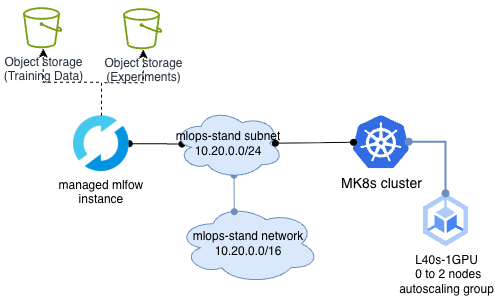
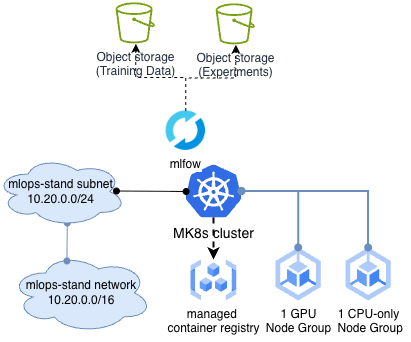
updated diagrams and some scripts

Changed region(s): [[0.0, 0.298, 1.0, 0.9834], [0.0, 0.0, 0.6715, 0.298]]

diff --git a/README.md b/README.md
@@ -25,17 +25,34 @@ This reference architecture provisions an automated, production-ready MLOps plat
 ## 4. Repository Structure
 
 ```text
-├── docs/
-│   └── architecture.png 
-├── terraform/
-│   ├── network.tf                   
-|   ├── kubernetes.tf
-│   ├── s3-storage.tf
-│   ├── terraform.tf
-│   ├── providers.tf
-└── k8s/
-    ├── training/
-    └── app/
+├── docs/                           # Architecture diagram and tech stack graphics
+├── grafana_dashboards/             # Exported JSON files for vLLM performance telemetry
+│   ├── concurrency_queue_depth.json
+│   ├── kv_cache_usage.json
+│   ├── p95_end_to_end_latency.json
+│   └── token_throughput.json
+├── k8s/                            # Kubernetes deployment manifests
+│   ├── app/                        # vLLM inference engine configuration
+│   │   ├── vllm-deployment.yml     # StatefulSet/Deployment for serving engine and S3 InitContainer
+│   │   └── vllm-lb-service.yml     # LoadBalancer configuration for external HTTP access
+│   ├── training/                   # MLOps pipeline jobs
+│   │   ├── base/
+│   │   │   ├── job-finetune.yml    # PyTorch QLoRA training job definition
+│   │   │   └── kustomization.yml   # Base Kustomize configuration
+│   │   └── overlays/sql-expert/
+│   │       ├── kustomization.yml   # ConfigMap generator injecting train_lora.py into the pod
+│   │       └── train_lora.py       # TRL/PEFT fine-tuning script with MLflow and S3 integrations
+│   ├── mlflow-values.yml           # Helm values for Self-Hosted MLflow (S3, CORS, PostgreSQL)
+│   └── vllm-service-monitor.yml    # Prometheus ServiceMonitor for scraping vLLM metrics
+├── terraform/                      # Infrastructure-as-Code definitions
+│   ├── kubernetes.tf               # Managed Kubernetes (MK8s) cluster and GPU/CPU node pools
+│   ├── network.tf                  # VPC, subnets, and routing
+│   ├── providers.tf                # Nebius provider configuration
+│   ├── s3-storage.tf               # Object Storage buckets and IAM service accounts
+│   ├── terraform.tf                # Terraform versions and backend
+│   └── vars.tf                     # Input variables (Region, project IDs, machine types)
+├── load_test.sh                    # Stress-testing script comparing base vs. adapter latency
+└── upload_grafana_dashboards.sh    # Bash script leveraging Grafana API to provision dashboards
 ```
 
 ---
@@ -211,7 +228,7 @@ kubectl apply -f k8s/app
 Wait until the vLLM pod is in `Running` state and the base model is warmed in VRAM:
 
 ```bash
-kubectl wait --for=condition=ready pod -l app.kubernetes.io/name=vllm --timeout=600s
+kubectl wait --for=condition=Ready pod -l app=vllm --timeout=600s
 ```
 
 To view metrics from deployed vLLM service in Grafana deploy vllm service monitor.
